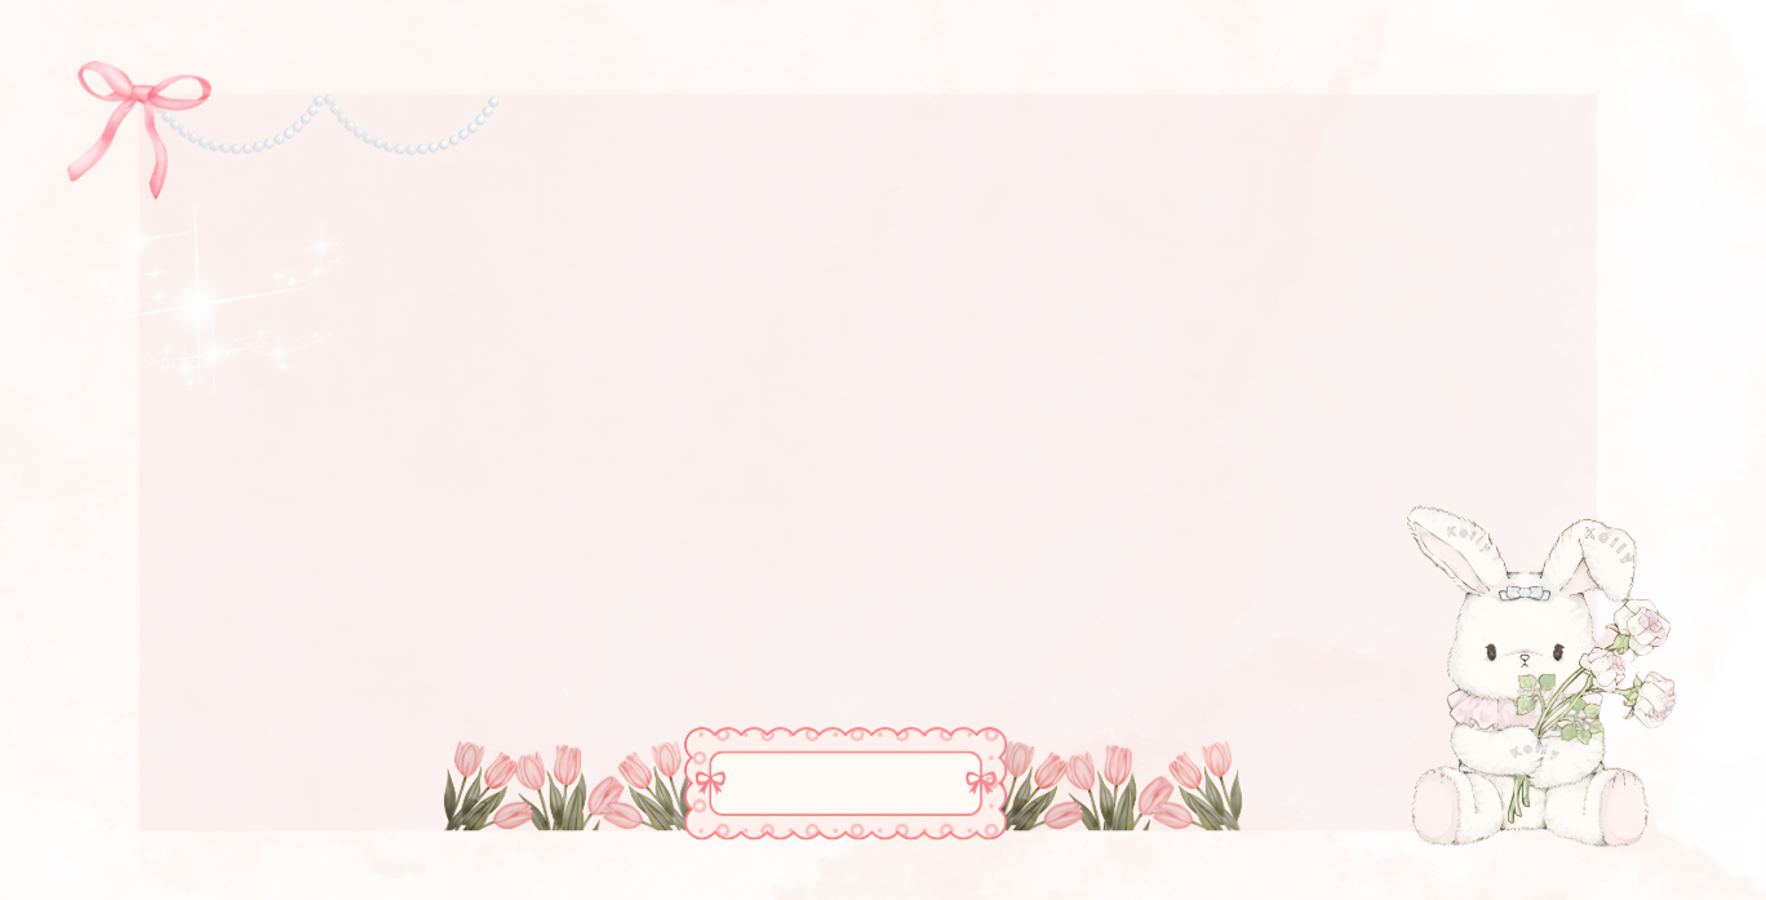
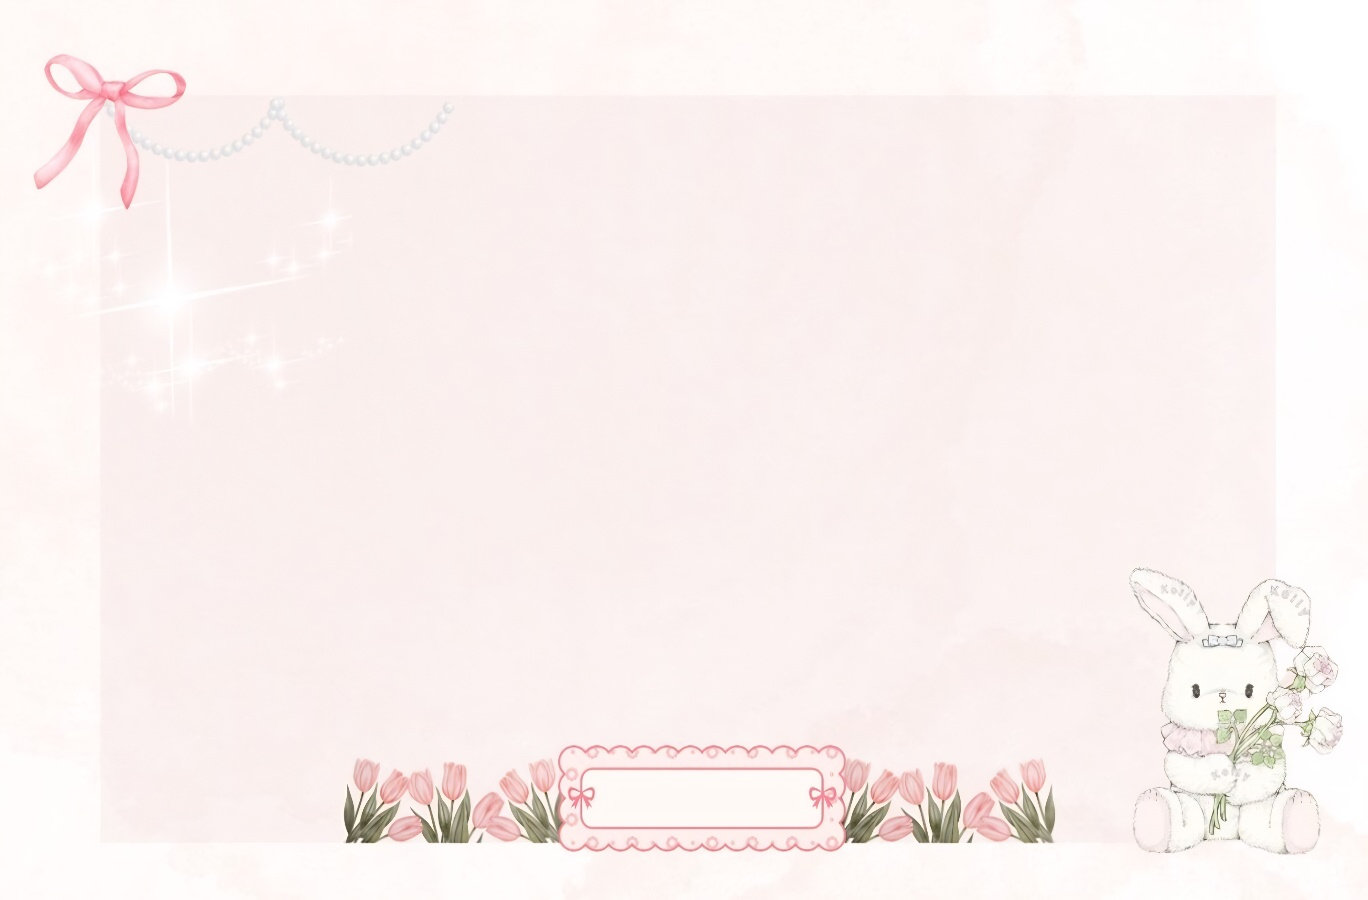
Se realizo la pagina de inicio se sesion y de registrarse de forma responsive con media queris

diff --git a/assets/css/login.css b/assets/css/login.css
@@ -4,6 +4,7 @@
     margin: 0;
     box-sizing: border-box;
 }
+
 /*Se realiza todo el css de la pagina de inicio*/
 body {
     background-image: url(../image/fondoIniciarSesion.png);
@@ -15,7 +16,7 @@ body {
 
 h1 {
     display: flex;
-    padding-top: 4rem;
+    padding-top: 6rem;
     justify-content: center;
     font-family: "Alice", serif;
     font-size: 2.3rem;
@@ -25,9 +26,9 @@ h1 {
 
 form {
     display: grid;
-    grid-template-columns: 32% 25% 25% 8% 1%;
-    grid-template-rows: 25% 10% 25% 114% 20%;
-    margin-left: 10%;
+    grid-template-columns: 32% 20% 24% 8% 1%;
+    grid-template-rows: 25% 10% 25% 20% 100% 25%;
+    margin-left: 14%;
 
 }
 
@@ -38,8 +39,8 @@ form {
     align-items: baseline;
     justify-content: flex-start;
     padding-left: 3%;
-    padding-top: 1%;
-    font-size: 140%;
+    padding-top: 2%;
+    font-size: 1.5rem;
     font-family: system-ui, 'Segoe UI', 'Open Sans', 'Helvetica Neue', sans-serif;
     font-weight: 300rem;
     border-radius: 10rem;
@@ -56,8 +57,8 @@ form {
     align-items: baseline;
     justify-content: flex-start;
     padding-left: 3%;
-    padding-top: 1%;
-    font-size: 140%;
+    padding-top: 2%;
+    font-size: 1.5rem;
     font-family: system-ui, 'Segoe UI', 'Open Sans', 'Helvetica Neue', sans-serif;
     font-weight: 300rem;
     border-radius: 10rem;
@@ -67,39 +68,78 @@ form {
 
 .liston {
     grid-area: 3/ 4 / 4 / 4;
-    width: 160%;
+    width: 10.5rem;
     margin-top: 1rem;
 }
 
 .botontxt {
+    grid-area: 6 / 1 / 6 / 4;
     background-color: transparent;
     border: 0rem;
     font-family: "Alice", serif;
-    font-size: 150%;
+    font-size: 1.7rem;
     font-weight: 800;
-    position: absolute;
-    top: 50rem;
-    padding-left: 1.5rem;
-    left: 50%;
-    transform: translate(-50%, -50%);
+    margin-left: 7rem;
+    margin-top: 1rem;
 }
 
 .inputForm {
     border: 0rem;
     background-color: transparent;
-    font-size: 65%;
+    font-size: 80%;
     margin-left: 0.5%;
-    height:  70%; 
+    height: 70%;
 }
 
 
 /*MEDIA QUERIS*/
 
-@media (max-width: 480px){
+@media (max-width: 480px) {
     .botontxt {
         top: 89%;
-   }
-   h1 {
-    padding-top: 6rem;
-   }
-  }
+    }
+
+    h1 {
+        padding-top: 8rem;
+        font-size: 2rem;
+        margin-bottom: 2.5rem;
+        margin-left: 2.1rem;
+    }
+
+    body {
+        background-image: url(../image/fondoMovilSesion.png);
+    }
+
+    .inputForm {
+        font-size: 60%;
+        margin-left: 0.5%;
+        height: 70%;
+    }
+
+    label {
+        font-size: 80%;
+        margin-top: 0.8rem;
+        margin-left: 0.2rem;
+    }
+
+    form {
+        grid-template-columns: 30% 30% 18% 8% 1%;
+        grid-template-rows: 25% 10% 25% 20% 100% 25%;
+        margin-left: 5.5rem;
+        
+    }
+    .liston {
+        grid-area: 3/ 3 / 4 / 4;
+        width: 7.5rem;
+        margin-top: 1.5rem;
+        margin-left: 3rem;
+    }
+    .botontxt {
+        grid-area: 6 / 1 / 6 / 3;
+        font-size: 1.5rem;
+        font-weight: 800;
+        margin-top: 3rem;
+        margin-left: 8.9rem;
+    }
+    
+}

diff --git a/assets/css/registro.css b/assets/css/registro.css
@@ -10,12 +10,12 @@ body {
     background-position: center;
     background-repeat: no-repeat;
     background-attachment: fixed;
-    background-size: cover;
+    background-size: contain;
 }
 
 h1 {
     display: flex;
-    padding-top: 5.5rem;
+    padding-top: 7rem;
     justify-content: center;
     text-align: center; 
     font-family: "Alice", serif;
@@ -26,9 +26,9 @@ h1 {
 
 form {
     display: grid;
-    grid-template-columns: 40% 36% 10% ;
-    grid-template-rows: 20% 8% 20% 8% 20% 8% 20% 8% 20% 8% 20% 8%;
-    margin-left: 10%;
+    grid-template-columns: 40% 38% 8% 5% ;
+    grid-template-rows: 25% 8% 25% 8% 25% 8% 25% 8% 25% 8% 95%;
+    margin-left: 13%;
 }
 
 .nombres{
@@ -40,11 +40,11 @@ form {
 }
 
 .correo{
-    grid-area: 5 / 1 / 5 / 3;
+    grid-area: 5 / 1 / 5 / 4;
 }
 
 .contraseña{
-    grid-area: 7 / 1 / 7 / 3;
+    grid-area: 7 / 1 / 7 / 4;
 }
 
 .genero{
@@ -57,7 +57,7 @@ div{
     align-items: center;
     justify-content: flex-start;
     padding-left: 3%;
-    font-size: 110%;
+    font-size: 100%;
     font-family: system-ui, 'Segoe UI', 'Open Sans', 'Helvetica Neue', sans-serif;
     border-radius: 10rem;
     font-weight: 600;
@@ -67,20 +67,60 @@ div{
 .inputRegistro{
     border: 0rem;
     background-color: transparent;
-    font-size: 78%;
+    font-size: 88%;
     margin-left: 0.5%;
-    margin-top: 0.2rem;
+    margin-top: 0.3rem;
     height:  70%; 
 }
 
 .boton {
+    grid-area: 11 / 1 / 11 / 4;
     background-color: transparent;
     border: 0rem;
     font-family: "Alice", serif;
     font-size: 150%;
     font-weight: 800;
-    position: absolute;
-    top: 87vh;
-    left: 48%;
-    transform: translate(-50%, -50%);
+    margin-top: 1rem;
+    margin-left: 1.2rem;
+    
+}
+
+label{
+    font-size: 1.3rem;
+}
+
+/*MEDIA QUERIS*/
+@media (max-width: 480px){
+    label{
+        font-size: 0.9rem;
+    }
+    .genero{
+        grid-area: 9 / 1 / 9 / 4;
+    }
+    body {
+        background-image: url(../image/fondoMovilRegistro.png);
+        background-position: center;
+        background-repeat: no-repeat;
+        background-attachment: fixed;
+        background-size: cover;
+    }
+    h1 {
+        font-size: 1.8rem;
+    }
+    form {
+        display: grid;
+        grid-template-columns: 35% 35% 12% 3% ;
+        grid-template-rows: 25% 8% 25% 8% 25% 8% 25% 8% 25% 8% 70%;
+        margin-left: 12%;
+    }
+    .inputRegistro{
+        font-size: 80%;
+        margin-top: 0.2rem;
+       
+    }
+    .boton {
+        grid-area: 11 / 1 / 11 / 3;
+        font-size: 150%;
+        margin-top: 2.6rem;
+    }
 }

diff --git a/assets/pages/registro.html b/assets/pages/registro.html
@@ -45,11 +45,10 @@
             <label for="otro">&nbsp;&nbsp;Otro</label>
             <input type="radio" name="genero" class="inputRegistro"  value="otro" id="otro"><br><br>
         </div>
-
-        
+        <input type="submit" class="boton" value="CREAR">
     </form>
 
-    <input type="submit" class="boton" value="CREAR">
+    
 
 
 
